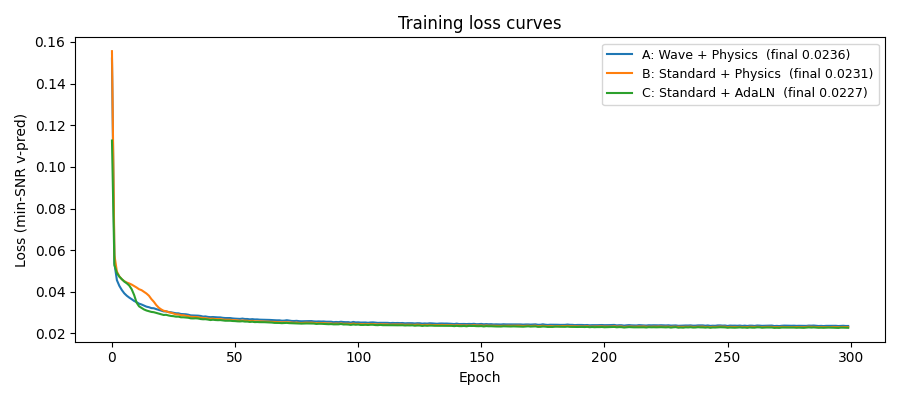
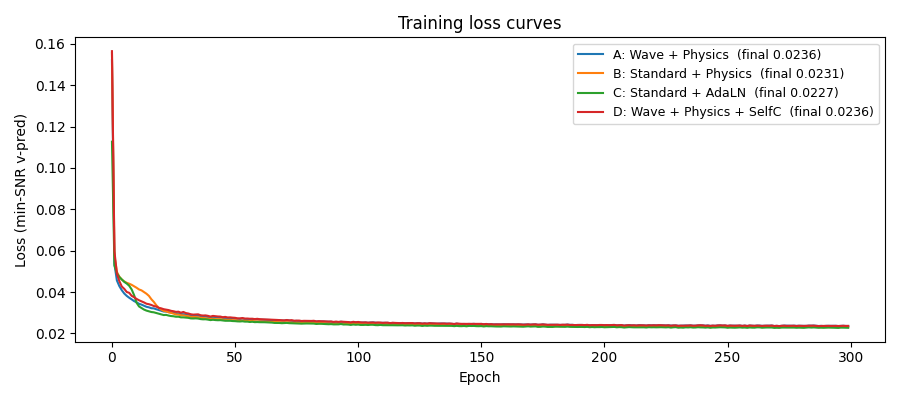
v7: add self-conditioning to MNIST diffusion + extend 3-way comparison
Adds Chen et al. 2022 self-conditioning: during training, with 50% probability
the model runs once without grad to produce an x_0 estimate that is detached
and concatenated to the noisy input on the second pass. At sample time the
prior step's x_0 prediction is threaded forward.

Comparison script now includes a fourth run (Wave + Physics + SelfC) and
refreshed sample / loss / per-timestep plots.

diff --git a/wave_field/diffusion.py b/wave_field/diffusion.py
@@ -148,18 +148,41 @@ class DDPMDiffusion:
         t: torch.Tensor,
         noise: torch.Tensor | None = None,
         min_snr_gamma: float | None = 5.0,
+        self_cond_prob: float = 0.5,
     ) -> torch.Tensor:
         """
-        Training loss with optional Min-SNR weighting (Hang et al. 2023).
+        Training loss with optional Min-SNR weighting (Hang et al. 2023) and
+        self-conditioning (Chen et al. 2022).
 
-        SNR(t) = ᾱ_t / (1 − ᾱ_t).  Min-SNR weight is min(SNR, γ) / SNR for ε-pred,
-        and min(SNR, γ) / (SNR + 1) for v-pred — caps loss contribution from
-        degenerate extreme-SNR timesteps where uniform sampling wastes capacity.
+        Self-conditioning: if model.use_self_cond is True, with probability
+        `self_cond_prob` we run the model once (no grad), recover an x_0
+        estimate, detach it, and feed it back as `self_cond` on a second
+        forward pass.  The other (1−p) of the time we train with zeros so
+        the model handles both cases at inference.
         """
         if noise is None:
             noise = torch.randn_like(x_start)
         x_noisy = self.q_sample(x_start, t, noise=noise)
-        pred = model(x_noisy, t)
+
+        # Self-conditioning: optional first pass to get x_0 estimate
+        use_sc = getattr(model, "use_self_cond", False)
+        self_cond = None
+        if use_sc and self_cond_prob > 0 and torch.rand(1).item() < self_cond_prob:
+            with torch.no_grad():
+                first_pred = model(x_noisy, t)
+                if self.parameterization == "v":
+                    s_ab = self._extract(self.sqrt_alpha_bar, t, x_start.shape)
+                    s_omab = self._extract(self.sqrt_one_minus_alpha_bar, t, x_start.shape)
+                    # x_0 = α·x_t − σ·v
+                    self_cond = s_ab * x_noisy - s_omab * first_pred
+                else:
+                    s_recip = self._extract(self.sqrt_recip_alpha_bar, t, x_start.shape)
+                    s_recipm1 = self._extract(self.sqrt_recipm1_alpha_bar, t, x_start.shape)
+                    self_cond = s_recip * x_noisy - s_recipm1 * first_pred
+                self_cond = self_cond.detach()
+
+        # Main forward pass (with self_cond if computed, else implicit zeros)
+        pred = self._call_model(model, x_noisy, t, self_cond)
 
         if self.parameterization == "v":
             s_ab = self._extract(self.sqrt_alpha_bar, t, x_start.shape)
@@ -182,9 +205,17 @@ class DDPMDiffusion:
             return (w * per_sample).mean()
         return per_sample.mean()
 
-    def _model_eps(self, model: torch.nn.Module, x_t: torch.Tensor, t: torch.Tensor) -> torch.Tensor:
+    @staticmethod
+    def _call_model(model, x_t, t, self_cond=None):
+        """Forward pass that passes self_cond if the model accepts it."""
+        if getattr(model, "use_self_cond", False):
+            return model(x_t, t, self_cond=self_cond)
+        return model(x_t, t)
+
+    def _model_eps(self, model: torch.nn.Module, x_t: torch.Tensor, t: torch.Tensor,
+                   self_cond: torch.Tensor | None = None) -> torch.Tensor:
         """Run the model and return ε prediction regardless of parameterization."""
-        pred = model(x_t, t)
+        pred = self._call_model(model, x_t, t, self_cond)
         if self.parameterization == "v":
             # v = α·ε − σ·x_0, and x_t = α·x_0 + σ·ε
             # → ε = α·v + σ·x_t  (using α² + σ² = 1)
@@ -222,16 +253,20 @@ class DDPMDiffusion:
 
     @torch.no_grad()
     def p_sample_step(
-        self, model: torch.nn.Module, x: torch.Tensor, t_idx: int
-    ) -> torch.Tensor:
-        """Single DDPM reverse step: sample x_{t-1} from p_θ(x_{t-1} | x_t)."""
+        self, model: torch.nn.Module, x: torch.Tensor, t_idx: int,
+        self_cond: torch.Tensor | None = None,
+    ) -> tuple:
+        """
+        Single DDPM reverse step: sample x_{t-1} from p_θ(x_{t-1} | x_t).
+        Returns (x_next, x_start) so callers can thread x_start as self_cond.
+        """
         B = x.shape[0]
         t = torch.full((B,), t_idx, dtype=torch.long, device=x.device)
-        eps_pred = self._model_eps(model, x, t)
+        eps_pred = self._model_eps(model, x, t, self_cond=self_cond)
         x_start = self._predict_xstart(x, t, eps_pred)
         mean, _, log_var = self._q_posterior(x_start, x, t)
         noise = torch.randn_like(x) if t_idx > 0 else torch.zeros_like(x)
-        return mean + (0.5 * log_var).exp() * noise
+        return mean + (0.5 * log_var).exp() * noise, x_start
 
     @torch.no_grad()
     def sample(
@@ -243,11 +278,12 @@ class DDPMDiffusion:
     ) -> torch.Tensor:
         """Full DDPM reverse diffusion from pure noise → image."""
         x = torch.randn(shape, device=device)
+        x_start = None   # threaded as self_cond when use_self_cond is on
         steps = list(reversed(range(self.T)))
         if progress:
             steps = tqdm(steps, desc="DDPM sampling", total=self.T)
         for t_idx in steps:
-            x = self.p_sample_step(model, x, t_idx)
+            x, x_start = self.p_sample_step(model, x, t_idx, self_cond=x_start)
         return x
 
     # ------------------------------------------------------------------
@@ -276,6 +312,7 @@ class DDPMDiffusion:
         ts = list(reversed(range(0, T, step_ratio)))
 
         x = torch.randn(shape, device=device)
+        x_start_prev = None   # threaded as self_cond
         if progress:
             ts_iter = tqdm(ts, desc=f"DDIM sampling ({num_steps} steps)")
         else:
@@ -286,7 +323,7 @@ class DDPMDiffusion:
 
             B = x.shape[0]
             t_tensor = torch.full((B,), t_curr, dtype=torch.long, device=device)
-            eps_pred = self._model_eps(model, x, t_tensor)
+            eps_pred = self._model_eps(model, x, t_tensor, self_cond=x_start_prev)
 
             ab_t = self._extract(self.alpha_bar, t_tensor, x.shape)
 
@@ -299,6 +336,7 @@ class DDPMDiffusion:
             # Predicted x_0 — no clamp here; clamping intermediates compounds errors
             # over many small steps. Final output is clamped after the loop.
             x_start = (x - (1 - ab_t).sqrt() * eps_pred) / ab_t.sqrt()
+            x_start_prev = x_start   # feed forward to next step's self-conditioning
 
             # DDIM variance
             sigma = eta * ((1 - ab_prev) / (1 - ab_t) * (1 - ab_t / ab_prev)).sqrt()

diff --git a/wave_field/model.py b/wave_field/model.py
@@ -274,6 +274,7 @@ class WaveFieldDenoiser(nn.Module):
         timestep_dim: int = 128,
         conditioning: str = "physics",
         use_2d_kernel: bool = False,
+        use_self_cond: bool = False,
     ):
         super().__init__()
 
@@ -289,6 +290,7 @@ class WaveFieldDenoiser(nn.Module):
         self.patch_size = patch_size
         self.dim = dim
         self.conditioning = conditioning
+        self.use_self_cond = use_self_cond
 
         # Patch geometry
         self.ph = H // patch_size   # number of patches vertically
@@ -297,7 +299,9 @@ class WaveFieldDenoiser(nn.Module):
         self.patch_dim = in_channels * patch_size * patch_size
 
         # Patch embedding: flat patch → model dim
-        self.patch_embed = nn.Linear(self.patch_dim, dim)
+        # If using self-conditioning, input has 2× channels (noisy ‖ x_0 estimate)
+        embed_in = self.patch_dim * (2 if use_self_cond else 1)
+        self.patch_embed = nn.Linear(embed_in, dim)
         # 2D sin/cos positional embedding — gives spatial layout for free
         # (vs. learned 1D embedding that has to discover row/column structure)
         self.register_buffer(
@@ -337,14 +341,18 @@ class WaveFieldDenoiser(nn.Module):
     # Patch utilities
     # ------------------------------------------------------------------
 
-    def patchify(self, x: torch.Tensor) -> torch.Tensor:
-        """(B, C, H, W) → (B, N, patch_dim) where N = ph * pw."""
+    def patchify(self, x: torch.Tensor, channels: int | None = None) -> torch.Tensor:
+        """
+        (B, C, H, W) → (B, N, C*P*P) where N = ph * pw.
+        `channels` overrides the assumed channel count (used for self-conditioned
+        input where C = 2 * in_channels).
+        """
         B, C, H, W = x.shape
         P = self.patch_size
-        # Rearrange into patches
+        flat_dim = (channels if channels is not None else self.in_channels) * P * P
         x = x.reshape(B, C, self.ph, P, self.pw, P)
         x = x.permute(0, 2, 4, 1, 3, 5).contiguous()   # (B, ph, pw, C, P, P)
-        x = x.view(B, self.num_patches, self.patch_dim)
+        x = x.view(B, self.num_patches, flat_dim)
         return x
 
     def unpatchify(self, x: torch.Tensor) -> torch.Tensor:
@@ -361,16 +369,28 @@ class WaveFieldDenoiser(nn.Module):
     # Forward
     # ------------------------------------------------------------------
 
-    def forward(self, x_noisy: torch.Tensor, t: torch.Tensor) -> torch.Tensor:
+    def forward(self, x_noisy: torch.Tensor, t: torch.Tensor,
+                self_cond: torch.Tensor | None = None) -> torch.Tensor:
         """
         Args:
-            x_noisy: (B, C, H, W) noisy image in [-1, 1]
-            t:       (B,) integer diffusion timesteps in [0, T-1]
+            x_noisy:   (B, C, H, W) noisy image in [-1, 1]
+            t:         (B,) integer diffusion timesteps in [0, T-1]
+            self_cond: (B, C, H, W) previous step's x_0 estimate (Chen 2022),
+                       or None.  Required if use_self_cond=True; ignored otherwise.
+                       Pass zeros to disable self-conditioning for a given call.
         Returns:
-            eps_pred: (B, C, H, W) predicted noise
+            eps_pred: (B, C, H, W) predicted noise (or v if v-pred)
         """
-        # Embed patches
-        h = self.patch_embed(self.patchify(x_noisy)) + self.pos_embed  # (B, N, dim)
+        if self.use_self_cond:
+            if self_cond is None:
+                self_cond = torch.zeros_like(x_noisy)
+            # Concatenate along channel dim before patchify
+            x_in = torch.cat([x_noisy, self_cond], dim=1)
+            patches = self.patchify(x_in, channels=2 * self.in_channels)
+        else:
+            patches = self.patchify(x_noisy)
+
+        h = self.patch_embed(patches) + self.pos_embed   # (B, N, dim)
 
         # Embed timestep
         t_emb = self.time_embed(t)   # (B, timestep_dim)

diff --git a/comparison/compare_models.py b/comparison/compare_models.py
@@ -36,9 +36,10 @@ OUT_DIR = os.path.dirname(__file__)   # save into comparison/ itself
 OUTPUTS = os.path.join(os.path.dirname(__file__), "..", "outputs")
 
 RUNS = {
-    "A: Wave + Physics":      os.path.join(OUTPUTS, "mnist_v6_physics",       "checkpoint_epoch0300.pt"),
-    "B: Standard + Physics":  os.path.join(OUTPUTS, "mnist_standard_physics", "checkpoint_epoch0300.pt"),
-    "C: Standard + AdaLN":    os.path.join(OUTPUTS, "mnist_standard",         "checkpoint_epoch0300.pt"),
+    "A: Wave + Physics":         os.path.join(OUTPUTS, "mnist_v6_physics",       "checkpoint_epoch0300.pt"),
+    "B: Standard + Physics":     os.path.join(OUTPUTS, "mnist_standard_physics", "checkpoint_epoch0300.pt"),
+    "C: Standard + AdaLN":       os.path.join(OUTPUTS, "mnist_standard",         "checkpoint_epoch0300.pt"),
+    "D: Wave + Physics + SelfC": os.path.join(OUTPUTS, "mnist_v7_selfcond",      "checkpoint_epoch0300.pt"),
 }
 
 
@@ -57,6 +58,7 @@ def load_model(ckpt_path: str, device):
         num_heads=a["num_heads"], timestep_dim=a["timestep_dim"],
         conditioning=a["conditioning"],
         use_2d_kernel=(a.get("kernel", "1d") == "2d"),
+        use_self_cond=a.get("self_cond", False),
     )
 
     # Swap in standard attention if checkpoint was trained with --attn standard
@@ -124,7 +126,8 @@ def main():
     n_runs = len(models)
     colors = {"A: Wave + Physics": "#1f77b4",
               "B: Standard + Physics": "#ff7f0e",
-              "C: Standard + AdaLN": "#2ca02c"}
+              "C: Standard + AdaLN": "#2ca02c",
+              "D: Wave + Physics + SelfC": "#d62728"}
 
     # -----------------------------------------------------------------------
     # 1. Sample grid (one column per run)

diff --git a/train_mnist.py b/train_mnist.py
@@ -62,12 +62,13 @@ class StandardAttention(nn.Module):
 
 
 def make_standard_model(image_size, in_channels, patch_size, dim, depth,
-                         num_heads, timestep_dim, conditioning):
+                         num_heads, timestep_dim, conditioning, use_self_cond=False):
     """WaveFieldDenoiser with attention swapped out for standard softmax attention."""
     model = WaveFieldDenoiser(
         image_size=image_size, in_channels=in_channels, patch_size=patch_size,
         dim=dim, depth=depth, num_heads=num_heads, timestep_dim=timestep_dim,
         conditioning=conditioning, use_2d_kernel=False,
+        use_self_cond=use_self_cond,
     )
     for block in model.blocks:
         block.attn = StandardAttention(dim=dim, num_heads=num_heads)
@@ -106,6 +107,9 @@ def get_args():
                    help="v-prediction (recommended for cosine) or ε-prediction")
     p.add_argument("--ema_decay", type=float, default=0.9999,
                    help="EMA decay; sample from EMA weights for clean outputs")
+    p.add_argument("--self_cond", action=argparse.BooleanOptionalAction, default=True,
+                   help="Self-conditioning (Chen 2022) — adds an extra input channel "
+                        "with the previous step's x_0 estimate; usually improves quality")
     p.add_argument("--seed", type=int, default=42)
     return p.parse_args()
 
@@ -233,6 +237,7 @@ def main():
             image_size=28, in_channels=1, patch_size=args.patch_size,
             dim=args.dim, depth=args.depth, num_heads=args.num_heads,
             timestep_dim=args.timestep_dim, conditioning=args.conditioning,
+            use_self_cond=args.self_cond,
         ).to(device)
     else:
         model = WaveFieldDenoiser(
@@ -240,11 +245,13 @@ def main():
             dim=args.dim, depth=args.depth, num_heads=args.num_heads,
             timestep_dim=args.timestep_dim, conditioning=args.conditioning,
             use_2d_kernel=use_2d,
+            use_self_cond=args.self_cond,
         ).to(device)
 
     print(f"Parameters: {model.param_count():,}")
     print(f"Patches: {model.num_patches}  (patch_size={args.patch_size})  "
-          f"attn={args.attn}  kernel={'2D' if use_2d else '1D'}")
+          f"attn={args.attn}  kernel={'2D' if use_2d else '1D'}  "
+          f"self_cond={args.self_cond}")
 
     # Save config
     with open(os.path.join(args.save_dir, "config.json"), "w") as f: